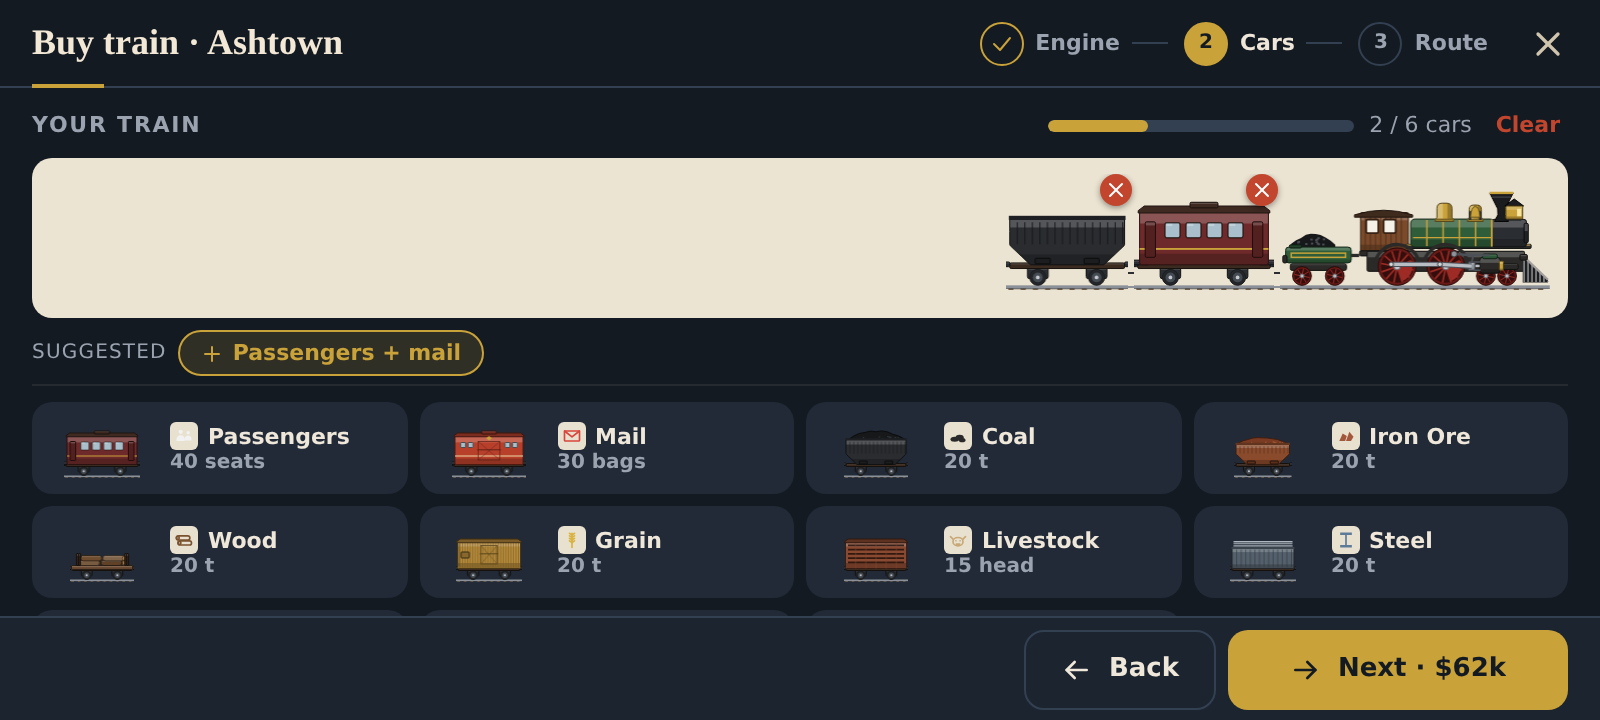
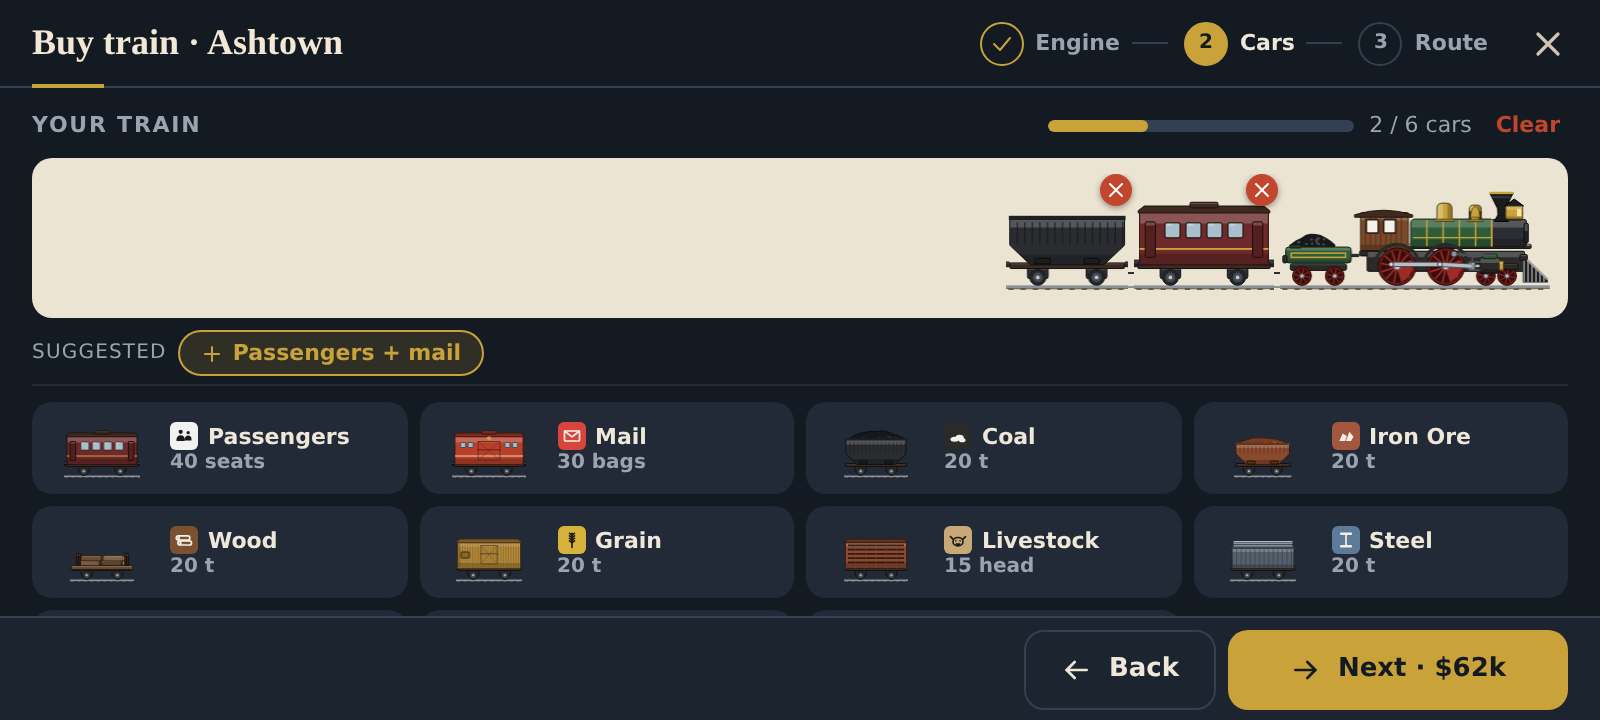
Phase 22: solid cargo badges, unit tests, extra screenshots, PLAN/PROGRESS
Claude-Session: https://claude.ai/code/session_01QrUmP2TeqHS2g6CyQH6vi7

diff --git a/tests/ui/trainUi.test.ts b/tests/ui/trainUi.test.ts
@@ -1,0 +1,69 @@
+import { describe, expect, it } from "vitest";
+import { LOCOMOTIVES, locomotiveById } from "../../src/data/trains";
+import { bestOf } from "../../src/ui/locoStats";
+import { LOADING_RULES, nextRule } from "../../src/ui/routeTimeline";
+import { suggestConsists } from "../../src/ui/consistBuilder";
+import { strings } from "../../src/ui/strings";
+import type { StationEconomy } from "../../src/sim/stations/economy";
+
+describe("route timeline helpers", () => {
+  it("cycles through every loading rule and wraps", () => {
+    let rule = LOADING_RULES[0]!;
+    const seen = new Set<string>();
+    for (let i = 0; i < LOADING_RULES.length; i++) {
+      seen.add(rule);
+      rule = nextRule(rule);
+    }
+    expect(seen.size).toBe(LOADING_RULES.length);
+    expect(rule).toBe(LOADING_RULES[0]);
+  });
+});
+
+describe("engine stat helpers", () => {
+  it("bestOf returns the per-stat maxima", () => {
+    const best = bestOf(LOCOMOTIVES);
+    expect(best.maxSpeedKmh).toBe(Math.max(...LOCOMOTIVES.map((l) => l.maxSpeedKmh)));
+    expect(best.maxCars).toBe(Math.max(...LOCOMOTIVES.map((l) => l.maxCars)));
+  });
+});
+
+describe("suggested consists", () => {
+  const economy = (supply: StationEconomy["supply"]): StationEconomy => ({
+    supply,
+    acceptPoints: {},
+    accepts: [],
+  });
+
+  it("suggests passengers + mail for a people station and freight for an industry", () => {
+    const loco = locomotiveById("american-4-4-0")!;
+    const out = suggestConsists(economy({ passengers: 12, coal: 30 }), loco, 1900);
+    expect(out.length).toBe(2);
+    expect(out[0]!.cars.every((c) => c === "passengers" || c === "mail")).toBe(true);
+    expect(out[0]!.cars).toContain("mail");
+    expect(out[1]!.cars.every((c) => c === "coal")).toBe(true);
+    expect(out.every((s) => s.cars.length <= loco.maxCars)).toBe(true);
+  });
+
+  it("never suggests freight cars for a passenger-only trainset", () => {
+    const loco = locomotiveById("high-speed-trainset")!;
+    const out = suggestConsists(economy({ passengers: 5, coal: 50 }), loco, 1990);
+    for (const s of out) {
+      expect(s.cars.every((c) => c === "passengers" || c === "mail")).toBe(true);
+    }
+  });
+
+  it("is empty when nothing is supplied", () => {
+    expect(suggestConsists(economy({}), locomotiveById("american-4-4-0")!, 1900)).toEqual([]);
+  });
+});
+
+describe("roster notes", () => {
+  it("every locomotive has a short original note", () => {
+    for (const l of LOCOMOTIVES) {
+      const note = strings.locoNotes[l.id];
+      expect(note, l.id).toBeTruthy();
+      expect(note!.length).toBeGreaterThan(30);
+      expect(note!.length).toBeLessThan(220);
+    }
+  });
+});

diff --git a/e2e/phase22.spec.ts b/e2e/phase22.spec.ts
@@ -217,4 +217,36 @@ test.describe("Phase 22 — train screens", () => {
     await expect(page.locator(".sheet-roster")).toBeVisible();
     await page.locator(".sheet-close").click();
   });
+
+  test("buy wizard in 1985: filters, dimmed electrics without wire, hero for a diesel", async ({
+    page,
+  }) => {
+    await setup(page, 1985);
+    const ids = await buildWorld(page, false);
+    await page.evaluate((id) => window.__game!.debugOpenStation(id), ids.a);
+    await page.locator(".station-buy-train-btn").click();
+    await expect(page.locator(".eng-filter .segmented-btn")).toHaveCount(3); // All + diesel + electric
+    await page.locator('.eng-filter [data-filter="electric"]').click();
+    const electric = page.locator(".eng-card.locked").first();
+    await expect(electric).toBeVisible();
+    await electric.click();
+    await expect(page.locator(".eng-warning")).toBeVisible();
+    await noHorizontalOverflow(page, ".sheet-wizard");
+    await shot(page, "buy-engine-electric");
+    await page.locator('.eng-filter [data-filter="diesel"]').click();
+    await page.locator(".eng-card").first().click();
+    await expect(page.locator(".eng-warning")).toHaveCount(0);
+    await shot(page, "buy-engine-diesel");
+    await page.locator(".wizard-next").click();
+    await expect(page.locator(".train-car-add-btn").first()).toBeVisible();
+  });
+
+  test("station trains tab and news show locomotive pictures", async ({ page }) => {
+    await setup(page);
+    const ids = await buildWorld(page, true);
+    await page.evaluate((id) => window.__game!.debugOpenStation(id), ids.a);
+    await page.locator(".tab", { hasText: "Trains" }).click();
+    await expect(page.locator(".train-loco-btn canvas.art-canvas").first()).toBeVisible();
+    await shot(page, "station-trains");
+  });
 });

diff --git a/src/ui/trainArt.ts b/src/ui/trainArt.ts
@@ -16,6 +16,7 @@ import {
 } from "../render/art";
 import type { ArtCanvas } from "../render/art/canvas";
 import { h } from "./h";
+import { chipTextColor } from "./infoPanels";
 import { icon, cargoIcon } from "./icons";
 
 /** Copies a cached art canvas into a fresh DOM canvas (CSS size = backing size / dpr). */
@@ -106,7 +107,7 @@ export function consistStrip(options: ConsistStripOptions): HTMLElement {
       ? h("span", { className: "cv-remove" }, icon("close", "icon-xs"))
       : null;
     const kids = [
-      car.loaded ? h("span", { className: "cv-cargo" }, cargoIcon(car.cargoType)) : null,
+      car.loaded ? h("span", { className: "cv-cargo" }, cargoBadge(car.cargoType)) : null,
       box,
       badge,
       options.fillMeters
@@ -156,4 +157,13 @@ export function wheelGlyphEl(def: LocomotiveDef): HTMLElement | null {
 /** Traction-type icon name for a locomotive. */
 export function tractionIcon(def: Pick<LocomotiveDef, "type">): "steam" | "diesel" | "electrify" {
   return def.type === "electric" ? "electrify" : def.type;
+}
+
+/** A cargo pictogram on a solid cargo-colour tile with a contrasting glyph (readable on any panel). */
+export function cargoBadge(cargo: CargoType, className = ""): HTMLElement {
+  const el = cargoIcon(cargo, className);
+  const color = CARGO[cargo].color;
+  el.style.background = color;
+  el.style.color = chipTextColor(color);
+  return el;
 }

diff --git a/src/ui/consistBuilder.ts b/src/ui/consistBuilder.ts
@@ -8,9 +8,9 @@ import type { LocomotiveDef } from "../data/trains";
 import type { StationEconomy } from "../sim/stations/economy";
 import { meter } from "./components/meter";
 import { h } from "./h";
-import { cargoIcon, icon } from "./icons";
+import { icon } from "./icons";
 import { strings } from "./strings";
-import { carArt, consistStrip } from "./trainArt";
+import { cargoBadge, carArt, consistStrip } from "./trainArt";
 
 export interface Suggestion {
   label: string;
@@ -182,7 +182,12 @@ export function consistBuilder(options: ConsistBuilderOptions): ConsistBuilder {
           h(
             "div",
             { className: "car-tile-text" },
-            h("span", { className: "car-tile-name" }, cargoIcon(c, "cargo-icon-xs"), CARGO[c].name),
+            h(
+              "span",
+              { className: "car-tile-name" },
+              cargoBadge(c, "cargo-icon-xs"),
+              CARGO[c].name,
+            ),
             h("span", { className: "car-tile-cap tabular" }, carCapacityText(c)),
           ),
         ),

diff --git a/src/ui/buyTrainWizard.ts b/src/ui/buyTrainWizard.ts
@@ -3,7 +3,7 @@
  * 1 Engine (picture cards + hero with stat bars), 2 Cars (side-view consist builder), 3 Route (the
  * sheet gives way to the side panel so the map is visible; tap stations to add stops).
  */
-import { CARGO, type CargoType } from "../data/cargo";
+import type { CargoType } from "../data/cargo";
 import {
   buyableLocomotivesIn,
   NEW_LOCOMOTIVE_BADGE_YEARS,

diff --git a/src/ui/theme.css b/src/ui/theme.css
@@ -3341,10 +3341,6 @@ button.rule-chip:active {
 .new-chip {
   flex: 0 0 auto;
 }
-.cargo-icon-xs,
-.cv-cargo .cargo-icon {
-  background: #e9e1cf !important;
-}
 .route-head {
   align-items: center;
 }

diff --git a/docs/PROGRESS.md b/docs/PROGRESS.md
@@ -3845,3 +3845,58 @@ carry-overs). Overlapping work here was dropped in favour of theirs; this entry 
 - Cities: two-tone top-lit roofs with ridge and outline, street lines continued along tile edges, landmark on the tile nearest the
   centroid (church for Town, town hall for City/Metropolis).
 - Deviation: the terminal's head building is on one side only.
+
+## 2026-09-29 — Phase 22: Train screens (buy wizard, train panel, roster, new-engine card)
+
+Tests: 416 unit (new `tests/ui/trainUi.test.ts`), 125 e2e (new `e2e/phase22.spec.ts`, 6 tests, run at devicePixelRatio 2);
+`npm run check` and `npm run e2e` green. Ran in parallel with Phase 21 (rebased before every push, no conflicts).
+
+### What was built
+- **Sheet** (`ui/sheet.ts`): full-screen header/body/footer container with Android-back support; used by the wizard, Edit cars
+  and the Roster.
+- **Buy wizard** (`ui/buyTrainWizard.ts`): stepper 1 Engine · 2 Cars · 3 Route. Step 1 = filter (All + only traction types that
+  exist now), newest-first engine cards (side-view thumb 36px, wheel glyph, New chip, price, dimmed + lock for electrics without
+  electrified track at this station) and a hero (96px side view on a paper plate, year/type chips, six stat bars/pips relative to
+  the best engine on offer, `ui/locoStats.ts`). Step 2 = consist builder (`ui/consistBuilder.ts`): whole train in side view, tap
+  a car to remove (✕ badge), cars-used meter, "Suggested" chips from what the origin station supplies, car palette tiles (side
+  view + cargo badge + capacity). Step 3 = the sheet gives way to the side panel (map visible) with the route timeline and the
+  existing map-pick mode; Buy needs 2 stops.
+- **Train panel v2** (`ui/trainPanels.ts`): header thumb = cropped loco front, subtitle with traction icon + wheel glyph; hero strip
+  (`consistStrip`: every car in side view, fill meter under it, cargo badge above when loaded, live-updating every 0.8 s without
+  rebuilding the panel); status line with icon (waiting reasons unchanged); tabs **Route** (`ui/routeTimeline.ts`: vertical
+  timeline, loco marker at/toward the current stop, tap a rule chip to cycle it, reorder, remove, Add stop via the map-pick
+  hook `setStationPickHooks`) and **Stats**; footer action bar Edit cars · Replace · Sell (two-tap). Edit cars is the same
+  consist builder in a sheet; Replace is a card list with side views, trade-in credit and net price.
+- New command `setOrderRule` (changes one stop's rule without resetting the train's progress; `setOrders` restarts at stop 1).
+- Station Trains tab, train list and News rows use loco side-view thumbs (news: new model, breakdown, no-route).
+- **Roster** (`ui/roster.ts`): sheet with steam / diesel / electric lanes in intro-year order; future models are black
+  silhouettes with only the year; tap a known model for the large drawing, wheel-arrangement glyph, stat bars, in-service count
+  and a short original note (`strings.locoNotes`). Opened by the era badge and Menu → Roster.
+- **New engine card** (`ui/newEngineCard.ts`): modal card at the year turn (once per model, queued when several arrive) with
+  Roster / OK; replaces the toast for that news item (the News panel entry stays).
+- Debug hooks: `debugPickStation(id)`, `debugOpenTrain(id)`.
+
+### Deviations from STYLE §11 / PLAN
+- Stats tab has no "profit this year / last year" and no "income by cargo": the sim keeps only lifetime revenue per train (no
+  per-year or per-cargo ledger and adding one means a save-format change). It shows earned (lifetime), running cost/yr, age,
+  reliability pips with the monthly breakdown risk, a load list ("Coal 20 / 20 t"), and a capacity-by-cargo bar with a
+  loaded meter. Breakdown *count* is not tracked either.
+- Electric models without electrified track at the station are dimmed with a lock and a warning line but stay selectable/
+  purchasable (the sim allows it; blocking would stop a player who plans to electrify next).
+- The train name is not editable (no rename command exists for trains).
+- Suggestions come from the *origin* station's supply (the wizard picks cars before stops exist, contrary to "first two stops").
+- Roster notes: no "buy" shortcut in the detail view (a purchase needs a station); no separate year axis, lanes scroll independently.
+- Map behind the buy route step is the normal map; the sheet is only used for steps 1–2 and Edit cars.
+
+### e2e selector changes (intent kept)
+- Buy flow: `.panel-title` "Buy Train" → `.sheet-title`/panel title containing "Buy train"; the loco/car pickers are steps 1/2 (click
+  `.wizard-next`); the route step's stops are `[data-testid=tl-stop]` rows instead of `.train-order-row` ("1." text).
+- Train panel: the order text "Station (Auto)" is now `.tl-station` + a `.rule-chip`; Edit cars is `.train-edit-btn` opening a
+  sheet confirmed with `.edit-confirm`; per-car load chips (`Coal 20 / 20 t`) moved to the Stats tab, the hero strip is asserted
+  via `.consist-veh[data-cargo]`; the waiting reason keeps the `.train-waiting` class on the status line.
+
+### Screenshots (opened and checked, 800×360 @2x) — `docs/screenshots/phase-22-*.png`
+`buy-engine`, `buy-cars`, `buy-route`, `train-panel`, `train-route`, `roster`, `roster-detail`, `new-engine`, plus extras
+`buy-engine-electric`, `buy-engine-diesel`, `train-stats`, `station-trains`.
+- Nits: the debug overlay (fps, seed controls) shows on the map in these shots because they run under `?debug=1`; the yearly report
+  panel opens behind the new-engine card at the year turn (both are real behaviour).

diff --git a/docs/PLAN.md b/docs/PLAN.md
@@ -670,14 +670,14 @@ STYLE §10 · files: `src/render/{stations,cities,industries,labels,terrain}.ts`
 
 ## Phase 22 — Train screens (buy wizard, train panel, roster, new-engine card)
 STYLE §11 · needs Phases 19 + 20 · files: `src/ui/trainPanels.ts` (split it), new `src/ui/roster.ts`, etc.
-- [ ] Buy-train wizard (§11.1): full-screen sheet, stepper, engine list with side-view thumbs, filters, hero with
+- [x] Buy-train wizard (§11.1): full-screen sheet, stepper, engine list with side-view thumbs, filters, hero with
       stat bars, consist builder with the side-view strip and suggestions, route step using the existing map-pick
       mode. Keep `?debug=1` hooks and existing e2e intents working.
-- [ ] Train panel v2 (§11.2): side-view hero with fill meters, status line with icon, Route timeline tab, Stats tab,
+- [x] Train panel v2 (§11.2): side-view hero with fill meters, status line with icon, Route timeline tab, Stats tab,
       action-bar footer; Edit cars reuses the consist builder.
-- [ ] Station "Trains" tab rows and news items use loco side-view thumbs.
-- [ ] Roster screen (§11.3) + short original notes per locomotive in strings.ts; era badge opens it.
-- [ ] New-engine announcement card (§11.4).
-- [ ] Screenshots: `phase-22-buy-engine.png`, `phase-22-buy-cars.png`, `phase-22-buy-route.png`,
+- [x] Station "Trains" tab rows and news items use loco side-view thumbs.
+- [x] Roster screen (§11.3) + short original notes per locomotive in strings.ts; era badge opens it.
+- [x] New-engine announcement card (§11.4).
+- [x] Screenshots: `phase-22-buy-engine.png`, `phase-22-buy-cars.png`, `phase-22-buy-route.png`,
       `phase-22-train-panel.png`, `phase-22-train-route.png`, `phase-22-roster.png`, `phase-22-roster-detail.png`,
       `phase-22-new-engine.png`. Open and check each at 800×360.
